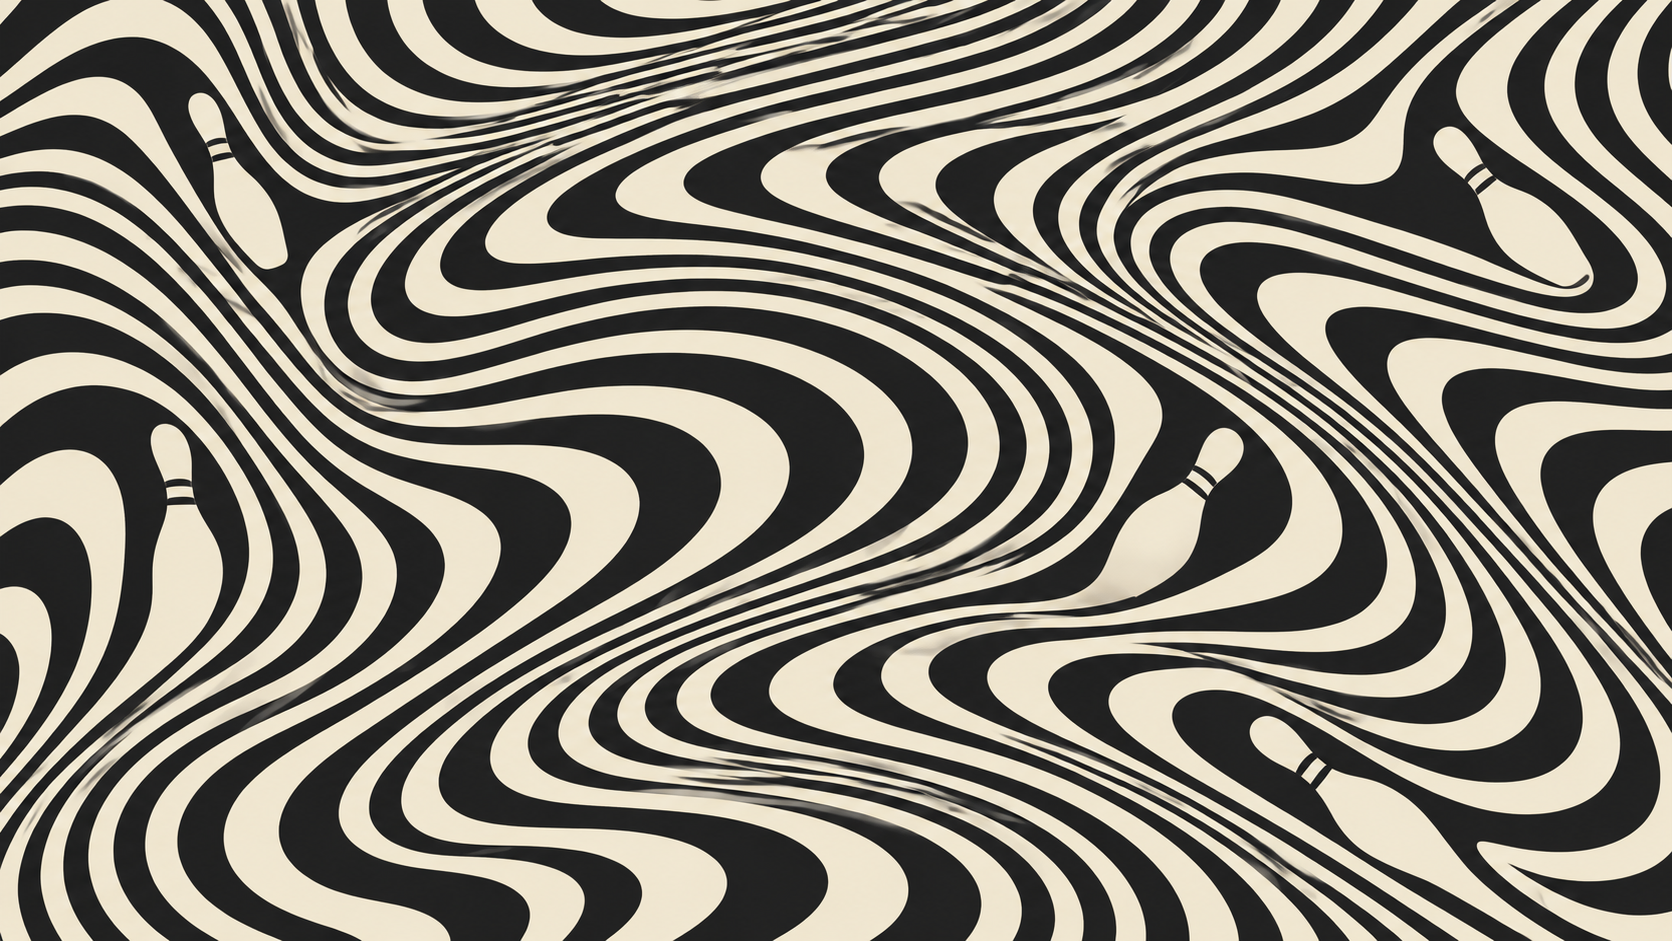
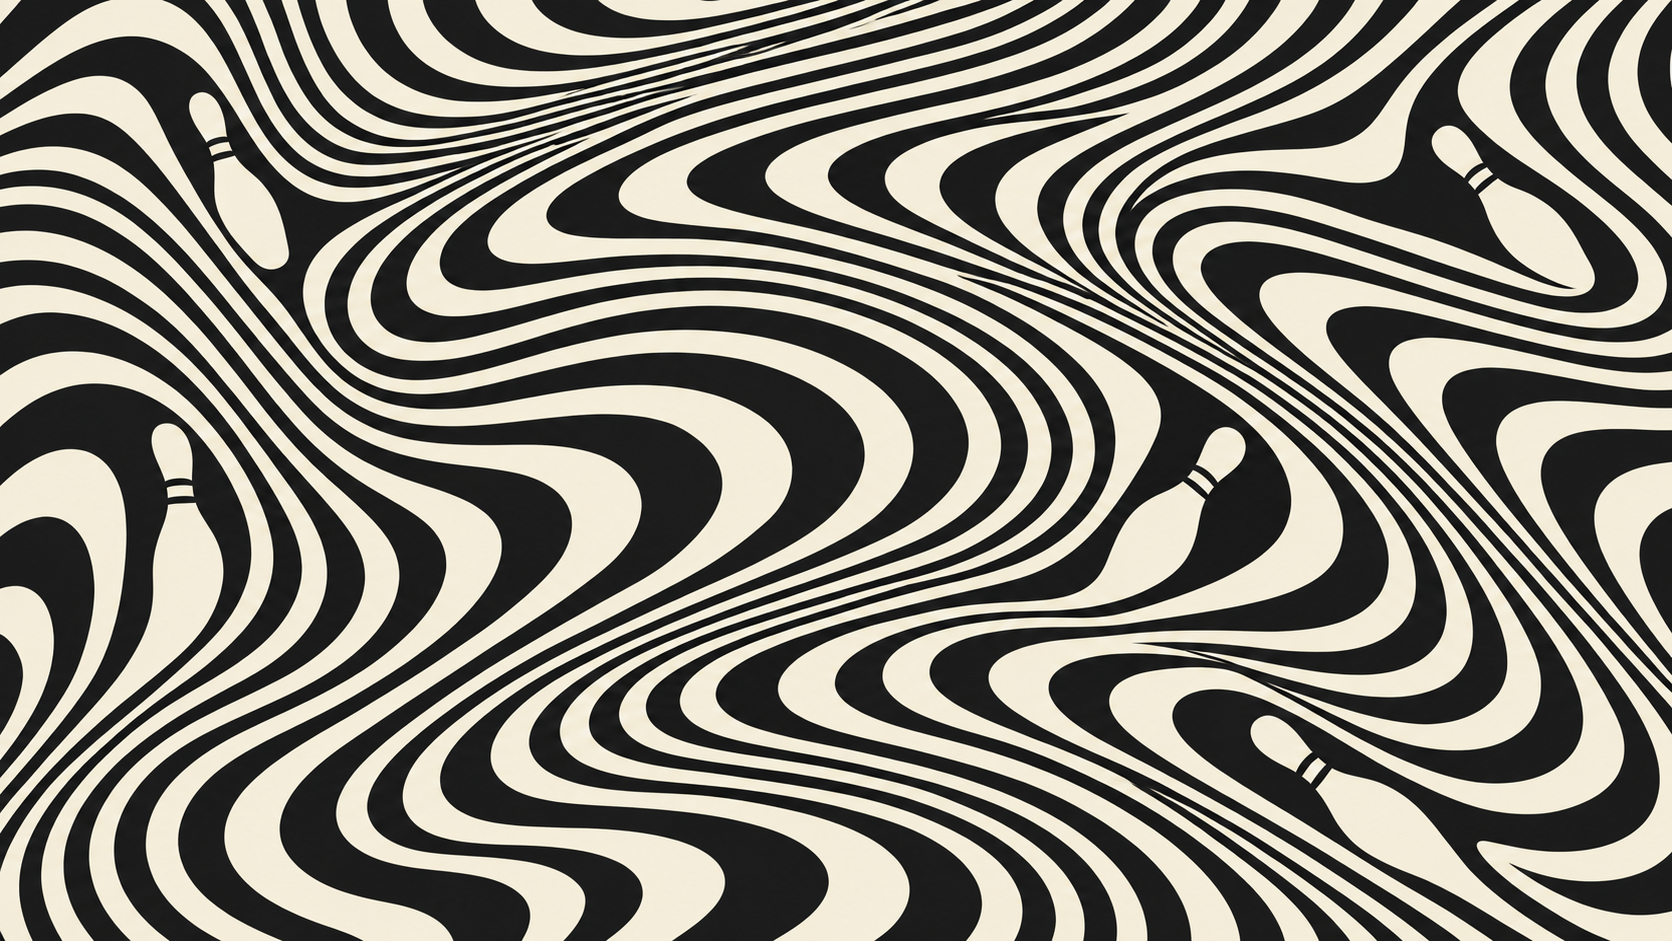
Use cleaner backdrop image, add black floor under lane planks

diff --git a/src/components/ui/dotted-surface.tsx b/src/components/ui/dotted-surface.tsx
@@ -39,7 +39,7 @@ export function DottedSurface() {
     const TOTAL_D = SEGS_Z * SEG_D;
 
     const scene = new THREE.Scene();
-    scene.fog = new THREE.Fog(0x1a1a2e, 2500, 8500);
+    scene.fog = new THREE.Fog(0x000000, 2500, 8500);
 
     const camera = new THREE.PerspectiveCamera(
       60,
@@ -145,6 +145,14 @@ export function DottedSurface() {
 
     const laneMesh = new THREE.Mesh(geometry, material);
     scene.add(laneMesh);
+
+    // Black floor underneath the lane so the backdrop doesn't show through
+    const floorGeo = new THREE.PlaneGeometry(TOTAL_W * 1.5, TOTAL_D * 1.5);
+    floorGeo.rotateX(-Math.PI / 2);
+    const floorMat = new THREE.MeshBasicMaterial({ color: 0x000000 });
+    const floor = new THREE.Mesh(floorGeo, floorMat);
+    floor.position.y = -80;
+    scene.add(floor);
 
     // Arrow markers
     const arrowPositions = [
